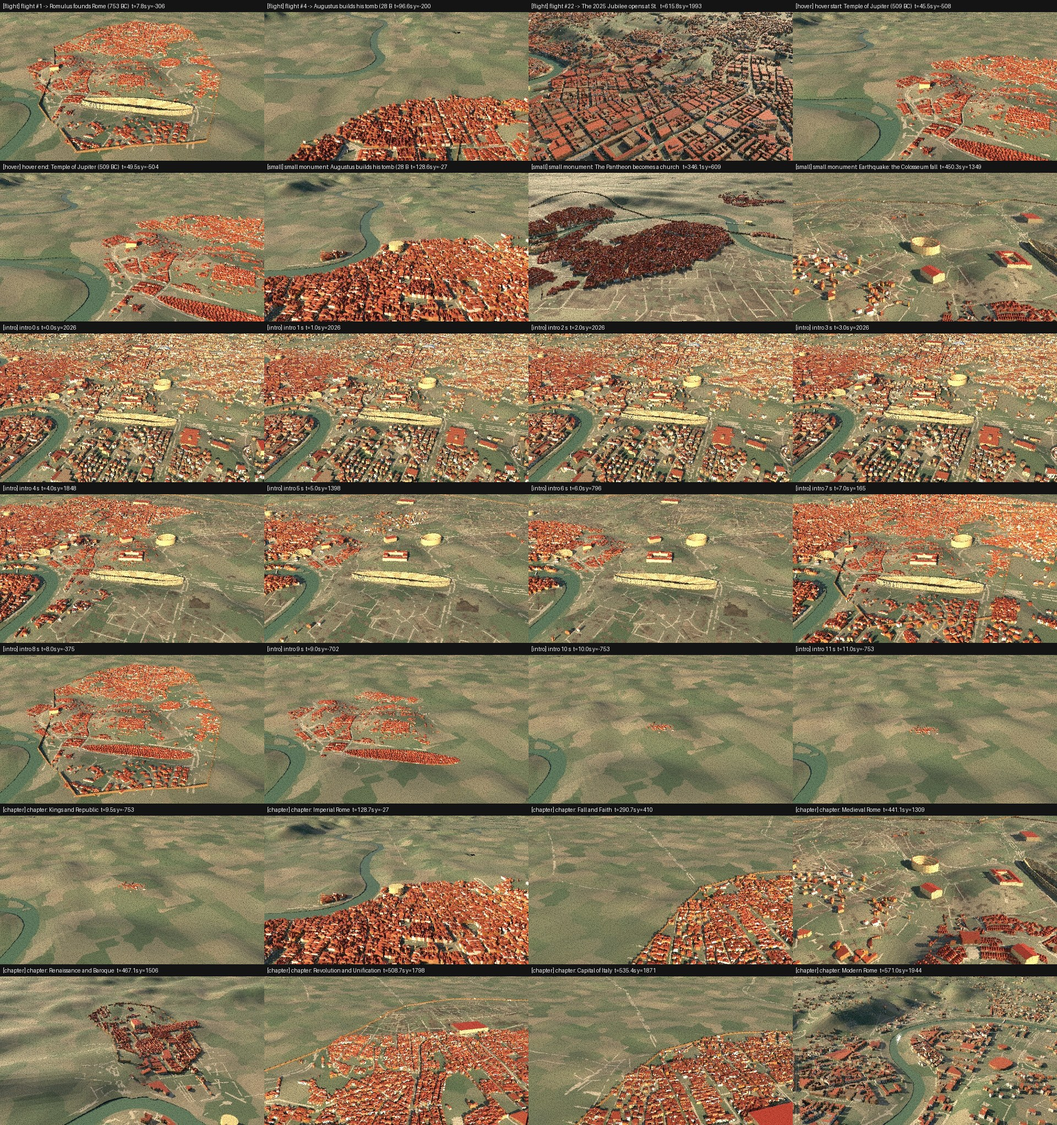
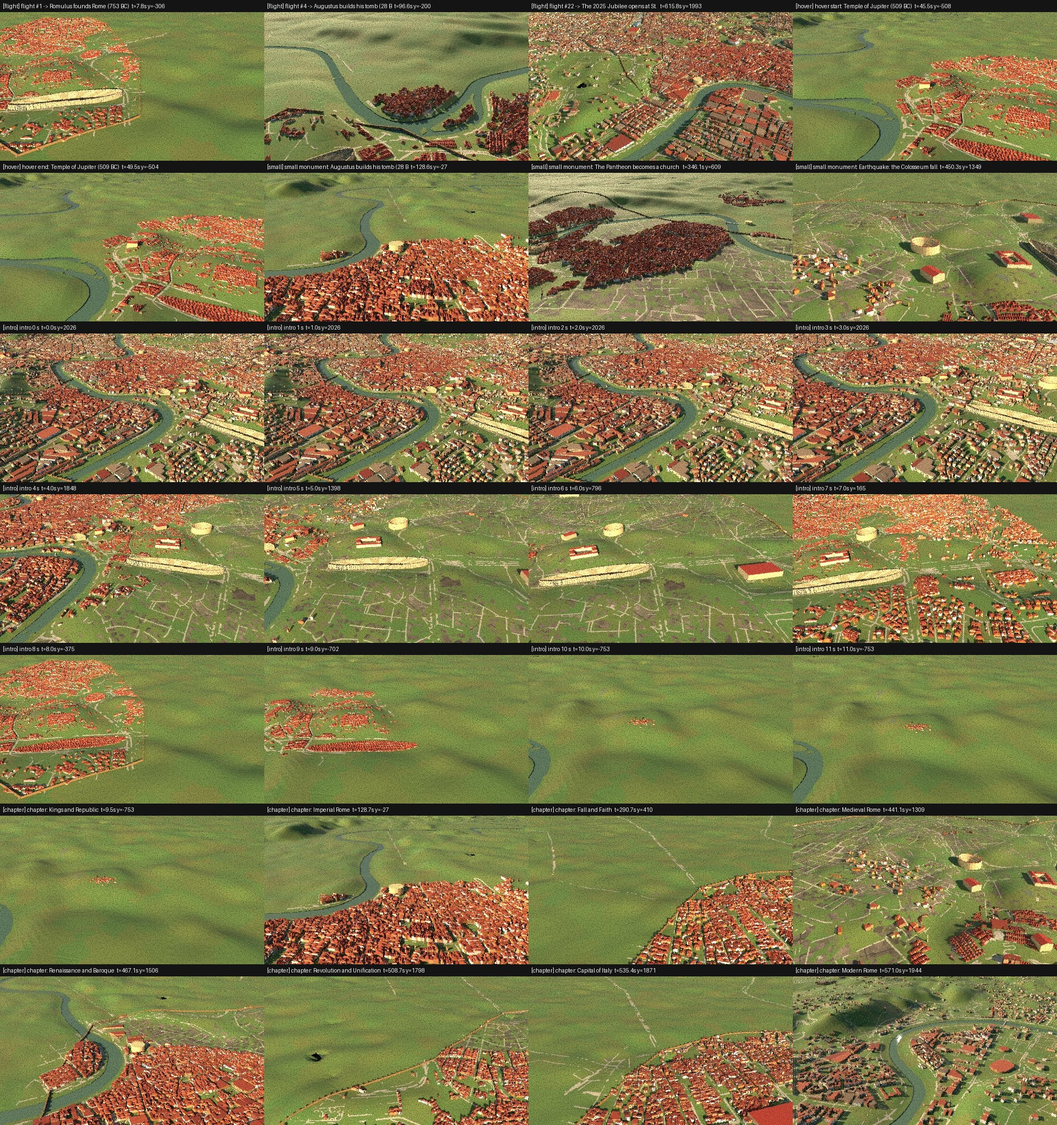
Roma: gate rilanciato 27/11 (WARN, 0 FAIL), GO_POD su fd2ea51
Claude-Session: https://claude.ai/code/session_01FNnmkK4esu8CFwdmvoSBUf

diff --git a/cities/roma/gate/DOSSIER.md b/cities/roma/gate/DOSSIER.md
@@ -1,17 +1,17 @@
 # GO dossier: Rome (roma)
 
-Generated by `python -m kit gate roma` on 2026-11-27 10:07 in 1805 s. **Overall: WARN** (gate checks, including every kit qa FAIL) / kit qa alone: **WARN**. No pod before a written GO (R3).
+Generated by `python -m kit gate roma` on 2026-11-27 15:28 in 1685 s. **Overall: WARN** (gate checks, including every kit qa FAIL) / kit qa alone: **WARN**. No pod before a written GO (R3).
 
 ## Verdict (R2)
 
-- **PASS** R2 camera distance: median 1546 m (35 mm equiv.), minimum 1200; refs: Copenhagen 1397, Paris 1427
-- **PASS** R2 look angle: p95 33 deg (limit 45), 98.5% of keys under it, max 85 deg
+- **PASS** R2 camera distance: median 1559 m (35 mm equiv.), minimum 1200; refs: Copenhagen 1397, Paris 1427
+- **PASS** R2 look angle: p95 35 deg (limit 45), 98.5% of keys under it, max 84 deg
 - **PASS** R2 frozen-counter flights: 0 flight(s) >= 12 s under 0.4 yr/s
 - **PASS** plots: plots.png
 - **PASS** POD PARITY: fresh unpack of data_roma_src + hist stub == local data: every json/npz md5 identical
 - **PASS** contact sheet: 28/28 real local frames: contact_sheet.jpg
-- **WARN** packaging draft: the left frame shows year 2026, the label says 753 BC: the frame must show the first year (Lyon's mistake); city json has no cover.shots: frames are a fallback (first hover / last flight second), define cover.shots
-- **WARN** banner: 21 uncommitted changes that the pod will not see (e.g. M cities/roma/gate/flights.csv)
+- **PASS** packaging draft: thumbnail + title built from the Lyon template
+- **WARN** banner: 1 uncommitted changes that the pod will not see (e.g. M cities/roma/gate/contact_sheet.jpg)
 
 ## 1. Contact sheet (real local CPU frames, 480x270)
 
@@ -25,34 +25,34 @@ Frames: flight:flight #1 -> Romulus founds Rome (753 BC)@7.8s; flight:flight #4 
 
 ![path](drone_path.png)
 
-Median distance 1546 m (>= 1200); pitch p95 33 deg (< 45); max pitch 85 deg.
+Median distance 1559 m (>= 1200); pitch p95 35 deg (< 45); max pitch 84 deg.
 
 ## 3. Flight table
 
 | # | start s | end s | dur s | years/s | median dist m | max alt m | max pitch deg | to | flag |
 |---|---|---|---|---|---|---|---|---|---|
-| 1 | 0.0 | 15.7 | 15.7 | 177.01 | 1690 | 908 | 27 | Romulus founds Rome (753 BC) | (opening) |
-| 2 | 21.7 | 45.0 | 23.3 | 9.68 | 1392 | 713 | 28 | Temple of Jupiter (509 BC) |  |
-| 3 | 50.0 | 62.9 | 12.8 | 9.83 | 1354 | 749 | 27 | The Servian Wall (378 BC) |  |
-| 4 | 67.3 | 125.9 | 58.6 | 5.87 | 1540 | 759 | 28 | Augustus builds his tomb (28 BC) |  |
-| 5 | 131.3 | 151.1 | 19.7 | 4.58 | 1258 | 622 | 53 | The Great Fire of Rome (AD 64) |  |
+| 1 | 0.0 | 15.7 | 15.7 | 177.01 | 1649 | 908 | 30 | Romulus founds Rome (753 BC) | (opening) |
+| 2 | 21.7 | 45.0 | 23.3 | 9.68 | 1282 | 713 | 39 | Temple of Jupiter (509 BC) |  |
+| 3 | 50.0 | 62.9 | 12.8 | 9.83 | 1284 | 749 | 34 | The Servian Wall (378 BC) |  |
+| 4 | 67.3 | 125.9 | 58.6 | 5.87 | 1502 | 765 | 32 | Augustus builds his tomb (28 BC) |  |
+| 5 | 131.3 | 151.1 | 19.7 | 4.58 | 1452 | 822 | 37 | The Great Fire of Rome (AD 64) |  |
 | 6 | 156.1 | 159.6 | 3.5 | 3.45 | 1353 | 612 | 28 | The Colosseum (AD 72-80) |  |
-| 7 | 165.6 | 201.9 | 36.3 | 5.20 | 1821 | 948 | 28 | The Aurelian Walls (271-275) |  |
-| 8 | 207.9 | 227.9 | 20.0 | 1.45 | 1472 | 880 | 38 | The largest baths of all (306) |  |
-| 9 | 232.7 | 259.2 | 26.5 | 1.86 | 1660 | 922 | 30 | Old St. Peter's (c. 320-360) |  |
-| 10 | 263.2 | 290.6 | 27.4 | 1.68 | 1765 | 926 | 41 | Alaric sacks Rome (410) |  |
-| 11 | 295.6 | 318.0 | 22.5 | 5.62 | 1681 | 864 | 84 | The Goths cut the aqueducts (537) |  |
-| 12 | 324.0 | 343.7 | 19.6 | 3.61 | 1438 | 760 | 85 | The Pantheon becomes a church (609 |  |
-| 13 | 348.5 | 369.9 | 21.4 | 8.88 | 1624 | 904 | 28 | Charlemagne crowned (800) |  |
-| 14 | 374.7 | 389.5 | 14.8 | 10.90 | 1165 | 501 | 29 | Otto crowned emperor (962) |  |
-| 15 | 394.3 | 416.4 | 22.1 | 8.18 | 1441 | 725 | 44 | The Senate returns (1143) |  |
-| 16 | 421.2 | 448.3 | 27.2 | 7.56 | 1587 | 774 | 27 | Earthquake: the Colosseum falls (1 |  |
-| 17 | 452.3 | 481.9 | 29.6 | 8.05 | 1399 | 706 | 54 | Michelangelo's dome (1590) |  |
+| 7 | 165.6 | 201.9 | 36.3 | 5.20 | 1934 | 950 | 27 | The Aurelian Walls (271-275) |  |
+| 8 | 207.9 | 227.9 | 20.0 | 1.45 | 1498 | 883 | 38 | The largest baths of all (306) |  |
+| 9 | 232.7 | 259.2 | 26.5 | 1.86 | 2005 | 923 | 38 | Old St. Peter's (c. 320-360) |  |
+| 10 | 263.2 | 290.6 | 27.4 | 1.68 | 1821 | 928 | 40 | Alaric sacks Rome (410) |  |
+| 11 | 295.6 | 318.0 | 22.5 | 5.62 | 1545 | 865 | 84 | The Goths cut the aqueducts (537) |  |
+| 12 | 324.0 | 343.7 | 19.6 | 3.61 | 1571 | 760 | 78 | The Pantheon becomes a church (609 |  |
+| 13 | 348.5 | 369.9 | 21.4 | 8.88 | 1690 | 906 | 28 | Charlemagne crowned (800) |  |
+| 14 | 374.7 | 389.5 | 14.8 | 10.90 | 1284 | 745 | 74 | Otto crowned emperor (962) |  |
+| 15 | 394.3 | 416.4 | 22.1 | 8.18 | 1546 | 751 | 47 | The Senate returns (1143) |  |
+| 16 | 421.2 | 448.3 | 27.2 | 7.56 | 1581 | 785 | 34 | Earthquake: the Colosseum falls (1 |  |
+| 17 | 452.3 | 481.9 | 29.6 | 8.05 | 1490 | 757 | 38 | Michelangelo's dome (1590) |  |
 | 18 | 486.9 | 491.8 | 4.8 | 16.12 | 1356 | 600 | 27 | Bernini's colonnade (1667-1676) |  |
-| 19 | 496.6 | 532.6 | 36.1 | 5.29 | 1746 | 934 | 40 | Rome, capital of Italy (1871) |  |
-| 20 | 538.0 | 549.6 | 11.6 | 3.15 | 1625 | 837 | 83 | The Vittoriano (1885-1911) |  |
-| 21 | 554.6 | 595.9 | 41.2 | 1.12 | 1639 | 954 | 35 | Rome Olympics (1960) |  |
-| 22 | 599.4 | 632.2 | 32.8 | 1.95 | 1504 | 794 | 35 | The 2025 Jubilee opens at St. Pete |  |
+| 19 | 496.6 | 532.6 | 36.1 | 5.29 | 1823 | 938 | 32 | Rome, capital of Italy (1871) |  |
+| 20 | 538.0 | 549.6 | 11.6 | 3.15 | 1567 | 961 | 38 | The Vittoriano (1885-1911) |  |
+| 21 | 554.6 | 595.9 | 41.2 | 1.12 | 1872 | 958 | 79 | Rome Olympics (1960) |  |
+| 22 | 599.4 | 632.2 | 32.8 | 1.95 | 1782 | 1089 | 33 | The 2025 Jubilee opens at St. Pete |  |
 | 23 | 641.8 | 647.5 | 5.7 | 0.03 | 1840 | 882 | 30 | finale | (finale) |
 
 ## 4. kit qa
@@ -73,12 +73,12 @@ Result: **WARN** (full report: qa_REPORT.md)
 ## 5. Expected pod banner (quote it in the GO message)
 
 ```
-VERSIONE: a01c094 yb Roma: 17 schede con fonti Wikipedia per chiudere vuoti di ritmo (max 22.6 -> 13.2 s), gate camera | schedule_roma: 660 s, lens 32.0
+VERSIONE: fd2ea51 Merge remote-tracking branch 'origin/main' into claude/prossima-citta-finire-2o3ryt | schedule_roma: 660 s, lens 32.0
 ```
 
 Branch `claude/prossima-citta-finire-2o3ryt`. The GO message must contain, in ONE message: GPU check (`cuInit` = 0), `git pull` + this banner to verify, the launch command, the live progress one-liner, covers, and the condition to switch off (R3).
 
-- WARN 21 uncommitted changes that the pod will not see (e.g. M cities/roma/gate/flights.csv)
+- WARN 1 uncommitted changes that the pod will not see (e.g. M cities/roma/gate/contact_sheet.jpg)
 
 ## 6. Cost (measured basis only, R4)
 
@@ -94,6 +94,4 @@ Branch `claude/prossima-citta-finire-2o3ryt`. The GO message must contain, in ON
 - First-year hover frame and NOW frame come from the city json `cover.shots`; the draft is built from 480x270 CPU frames, the final cover is rendered on the pod frames.
 
 ![packaging](packaging_compare.jpg)
-- WARN the left frame shows year 2026, the label says 753 BC: the frame must show the first year (Lyon's mistake)
-- WARN city json has no cover.shots: frames are a fallback (first hover / last flight second), define cover.shots
 

diff --git a/cities/roma/delivery/GO_POD.md b/cities/roma/delivery/GO_POD.md
@@ -1,8 +1,8 @@
 # Roma: GO POD (BOZZA, 27/11/2026). NON ancora dato: serve il GO scritto della chat e il merge su main. Un solo messaggio da incollare.
 
-Commit di render: `4d35e46` (oggi SOLO su `claude/prossima-citta-finire-2o3ryt`; il GO vale quando `main` lo contiene: merge pulito verificato con `git merge-tree`, main ha 2 commit in piu' che toccano solo `kit/regia_check.py` e `montaggio/years_pittsburgh.json`). Lo script sotto si ferma da solo se main non contiene 4d35e46.
+Commit di render: `fd2ea51` = `origin/main` (28/11, verificato con `git rev-parse origin/main`; contiene schedule_roma.json, city_roma.json, kit e story.json attuali; i commit successivi di questo branch toccano solo `cities/roma/gate/` e questo file). Il GO vale se `main` contiene fd2ea51. Lo script sotto si ferma da solo se manca o se i file di render sono cambiati dopo.
 Verificato sui file (27/11): POD PARITY 0 differenze (md5 di tutti i json/npz, rieseguita); `run.sh` per Roma esegue `hist_kit build` + `restore_after_build.sh` (esiste, idempotente); start_year -753, field_colors 5 toni oliva, look/palette, 22 soste, incendi `destroy` (455-547 d.C.), 4 ponti, 1 area d'acqua (Isola Tiberina) attivi in `story.json` e `city_roma.json`; costo cambi 50.842 (~0,17 h, budget 1 h); edifici su acqua: 0 fino al 1800, 1 nel 1900-1950, 3 nel 2000-2026 (residui, da accettare). Schedule: 660 s, 15.840 fotogrammi (%05d), niente notte, lens 32.
-Aperti (WARN, non FAIL): regia_check (versione di main) 0 tempi morti ma 12 tratti con camera ferma >8 s e anno +10 (8-22 s e' il rewind iniziale; 26-51 s +177 a; 99-133 s +148 a; 470-496 s +173 a; Pittsburgh ne aveva 3); corridoi/aree vuote del gate sezione d (accettate in story); densita' 1500 (11.352 vs 10.110 nel 2026). Cover: in `city_roma.json` ora 3 scatti (753 a.C., 120 d.C., 2026); il gate va rilanciato dopo il merge per vedere la bozza.
+Aperti (WARN, non FAIL): regia_check (versione di main) 0 tempi morti ma 12 tratti con camera ferma >8 s e anno +10 (8-22 s e' il rewind iniziale; 26-51 s +177 a; 99-133 s +148 a; 470-496 s +173 a; Pittsburgh ne aveva 3); corridoi/aree vuote del gate sezione d (accettate in story); densita' 1500 (11.352 vs 10.110 nel 2026). Cover: in `city_roma.json` ora 3 scatti (753 a.C., 120 d.C., 2026); gate rilanciato il 27/11 sul commit fd2ea51: bozza miniatura `753 BC > NOW` coerente con i fotogrammi.
 
 ## Costo [Guessing: Roma NON misurata sul pod]
 Base Marsiglia: 0,8 s/fotogramma x 15.840 = ~3,5 h + ~30 min di scena = ~4 h, ~0,5 EUR/h = ~2 EUR. Roma ha 92.562 edifici e 1.706 monumenti: se i primi fotogrammi superano ~2 s, fermare e scrivere in chat. Picco RAM locale ~11 GB per processo (A40 30 GB: un solo processo).
@@ -18,8 +18,8 @@ nvidia-smi --query-gpu=name --format=csv,noheader | grep -q A40 && [ "$CU" = "0"
 [ -d city3d ] || git clone -q https://github.com/doctail/city3d
 cd city3d && git fetch -q origin && git checkout -q main && git pull -q --ff-only
 git log -1 --oneline
-git merge-base --is-ancestor 4d35e46 HEAD || { echo "STOP: manca il commit 4d35e46 (main non e' stato unito o codice vecchio)."; exit 3; }
-git diff --quiet 4d35e46 HEAD -- run.sh build_render.py kit ':!kit/regia_check.py' schedule_roma.json city_roma.json cities/roma/story.json hist_roma.py data_roma_src || { echo "STOP: i file di render sono cambiati dopo il GO. Chiedere in chat."; exit 4; }
+git merge-base --is-ancestor fd2ea51 HEAD || { echo "STOP: manca il commit fd2ea51 (main non e' stato unito o codice vecchio)."; exit 3; }
+git diff --quiet fd2ea51 HEAD -- run.sh build_render.py kit ':!kit/regia_check.py' schedule_roma.json city_roma.json cities/roma/story.json hist_roma.py data_roma_src || { echo "STOP: i file di render sono cambiati dopo il GO. Chiedere in chat."; exit 4; }
 rm -rf out/full 2>/dev/null
 nohup env CITY=roma NOCOVER=1 bash run.sh full > /workspace/city3d/full.log 2>&1 &
 sleep 2; echo "lanciato, pid $!"

diff --git a/cities/roma/gate/qa_REPORT.md b/cities/roma/gate/qa_REPORT.md
@@ -1,6 +1,6 @@
 # QA roma
 
-Generato da `python -m kit.qa` il 2026-11-27 14:08. Esito complessivo: **WARN**
+Generato da `python -m kit.qa` il 2026-11-27 15:00. Esito complessivo: **WARN**
 
 | Sezione | Esito |
 |---|---|
